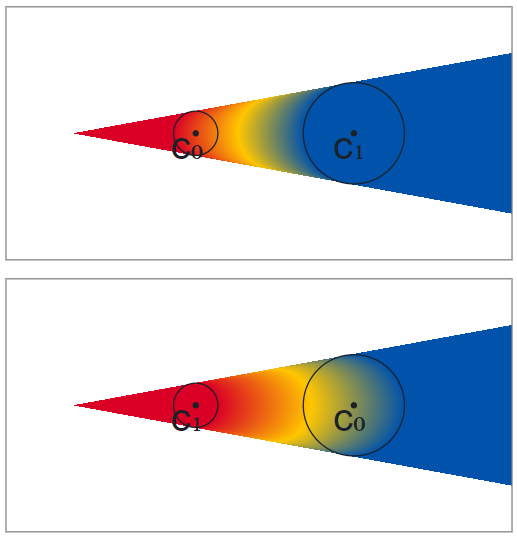
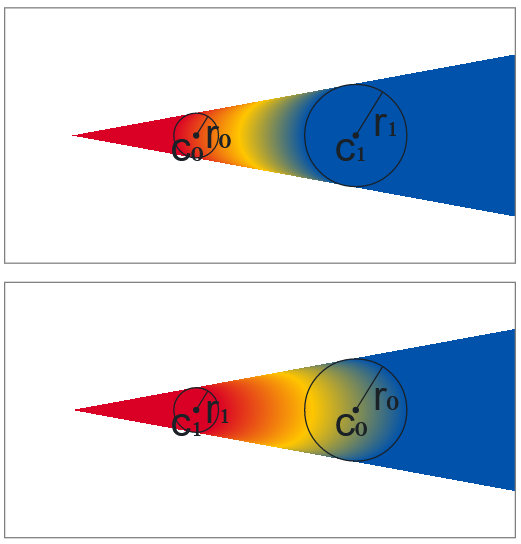
update radial_gradient_direction: viewbox, radius overlay

diff --git a/colr-gradients-spec.md b/colr-gradients-spec.md
@@ -286,8 +286,7 @@ Note that, because the rendering algorithm progresses ω in a particular directi
 from positive to negative, and because pixels are not re-painted as ω progresses, 
 which circle is considered circle 0 and which is circle 1 makes a difference in
 the appearance. In the following figure, two gradients are shown with the circles
-swapped (and order of stops reversed). The difference in appearance may be useful
-for creating different perceived 3D effects.
+swapped (and order of stops reversed).
 
 ![Radial gradients with start and end circles swapped](images/radial_gradients_direction.png)
 
